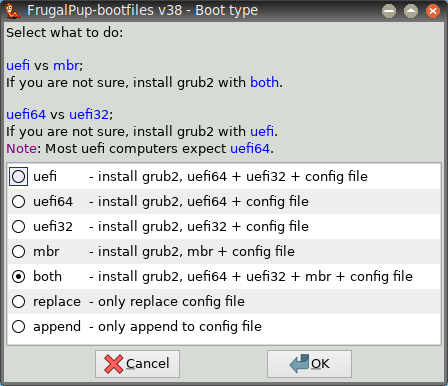
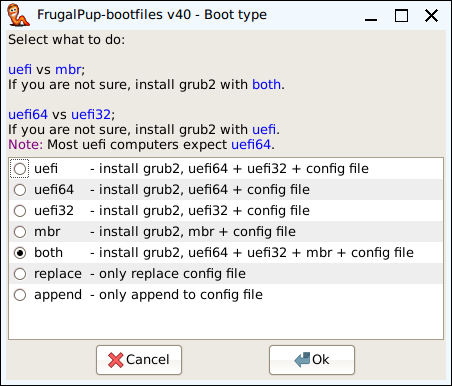
Version 40 - including gettext() translation

Changed region(s): [[0.0, 0.0, 1.0, 1.0]]

diff --git a/puppy/frugalpup/index.html b/puppy/frugalpup/index.html
@@ -3,6 +3,7 @@
 <html xmlns="http://www.w3.org/1999/xhtml" xml:lang="en" lang="en">
 
 <head>
+<meta charset="UTF-8">
 <title>FrugalPup</title>
 <link rel="SHORTCUT ICON" href="gnibbles.ico" />
 <link rel="stylesheet" type="text/css" href="frugalpup.css">
@@ -21,9 +22,13 @@ The current companion simple Puppy frugal installers are:<br />
 <b>StickPup</b><br />
 The simplest and most restricted installer, that formats and installs a single Puppy to a usb stick, in a single "fat32" partition.<br />
 <b>f2StickPup</b><br />
-Formats and installs a single Puppy to a usb stick, in a small "fat32" partition and a large Linux f2fs partition.<br />
+Formats and installs a single Puppy to a usb stick, in a small "fat32" partition and a large Linux "f2fs" partition.<br />
+<b>e3StickPup</b><br />
+Formats and installs a single Puppy to a usb stick, in a small "fat32" partition and a large Linux "ext3" partition.<br />
+<b>e4StickPup</b><br />
+Formats and installs a single Puppy to a usb stick, in a small "fat32" partition and a large Linux "ext4" partition.<br />
 <b>DiskPup</b><br />
-Does no partitioning or formating; The drive will need to already be partitioned and formatted. <br />
+Does no partitioning or formating; The drive will need to already be partitioned and formatted.<br />
 Installs a single Puppy linux in a selected directory, and the boot loader (Grub2) in a selected "fat32" partition.<br />
 The Puppy linux directory can be on the same partition as the boot loader, or on a different partition.</p>
 
@@ -52,7 +57,7 @@ It does not need to be on the same device as the <b>install partition</b>.<br />
 On a "uefi" computer, it can be the same "fat32" partition as the ESP (Efi System Partition), installed by some other Operating System, e.g. Windows,<br />
 but it's usually more straight-forward if it's not, even if it's on a small USB stick.<br />
 This is usually the first partition on the device that UEFI/firmware is configured to boot.<br />
-Use GParted to ensure that the 'boot' flag is set for this partition, and the 'esp' flag if it is available.</p>
+Use 'GParted' to ensure that the 'boot' flag is set for this partition, and the 'esp' flag if it is available.</p>
 
 <p>A simple approach, is to install Puppy to a usb device using a layout like that generated by <b>f2StickPup</b>,<br />
 e.g. a small "fat32" partition and a large linux partition on the rest of the drive.</p>
@@ -116,7 +121,7 @@ FrugalPup has always contained both copies of uefi grub2, and until version 37, 
 Apart from the slight saving in disk space, this only makes a real difference if grub2 is being installed to an ESP on a machine that requires 'uefi32'.<br />
 In that case, provided 'uefi32' is selected, 'bootia32.efi' will be specified in the UEFI/firmware boot entry instead of 'bootx64.efi'.</p>
 
-<p>Options are also provided to skip the install of Grub2, and change only the main "grub.cfg" file,<br />
+<p>Options are also provided to skip the install of Grub2, and change only the main 'grub.cfg' file,<br />
 either by replacing it, or by appending boot entries to it.<br /><br />
 If 'append' is not selected, a new 'grub.cfg' is generated.<br />
 FrugalPup does not attempt to generate a "Windows" boot entry. Instead, the files in '/var/local/otherinstalls.d' are processed in sort order.<br />

diff --git a/puppy/frugalpup/frugalpup-settings.html b/puppy/frugalpup/frugalpup-settings.html
@@ -3,6 +3,7 @@
 <html xmlns="http://www.w3.org/1999/xhtml" xml:lang="en" lang="en">
 
 <head>
+<meta charset="UTF-8">
 <title>FrugalPup - settings</title>
 <link rel="SHORTCUT ICON" href="gnibbles.ico" />
 <link rel="stylesheet" type="text/css" href="frugalpup.css">
@@ -23,7 +24,6 @@ there will be no further dialogs, the "save" will be setup and proceed automatic
 If it is a "Linux" partition, a savefolder will be created, if it is a "fat32" partition the RW layer in RAM will be archived and then restored on next boot (pupmode=66).<br />
 If <b>AUTOSAVE</b> is not supported by the Puppy being installed it will simply be ignored, "normal" first-shutdown dialogs will be shown.</p>
 
-
 <p>The bottom part of the screen controls the appearance of "kernel boot parameters" in the "Kernel boot parameters" dialog of the <b>Puppy</b> facility.<br />
 And the "kernel boot parameters" that are automatically applied by <b>StickPup</b>, <b>f2StickPup</b> and <b>DiskPup</b></p>
 
@@ -42,7 +42,7 @@ Bios workarounds for Windows can cause unnecessary performance penalities and ot
 This may fix some problems with older or incompatible Bios / UEFI unable to resume correctly from suspend.<br />
 Very often this also turns ACPI off.<br />
 However, disabled acpi is not recommended, because ACPI is to communicate with the hardware.<br />
-Especially in laptops ( to turn off, to change the brightness, to change the volume ).</p>
+Especially in laptops (to turn off, to change the brightness, to change the volume).</p>
 
 <p><b>intel_pstate=disable</b><br />
 Intel processors by default use cpu-frequency scaling driver intel_pstate.<br />

diff --git a/puppy/frugalpup/frugalpup-mok.html b/puppy/frugalpup/frugalpup-mok.html
@@ -3,6 +3,7 @@
 <html xmlns="http://www.w3.org/1999/xhtml" xml:lang="en" lang="en">
 
 <head>
+<meta charset="UTF-8">
 <title>FrugalPup - MOK Manager</title>
 <link rel="SHORTCUT ICON" href="gnibbles.ico" />
 <link rel="stylesheet" type="text/css" href="frugalpup.css">
@@ -55,7 +56,7 @@ Highlight the Puppy key file <span class="sel">puppy.cer</span>, and press <b>En
 <hr width="100%" />
 
 <img class="center" src="mok9.png" alt="MOK Manager screen 9">
-<p>Highlight <span class="sel">Reboot</span> and press <b>Enter</b>.</p>
+<p>Highlight <span class="sel">Reboot</span>, and press <b>Enter</b>.</p>
 
 <hr width="100%" />
 
